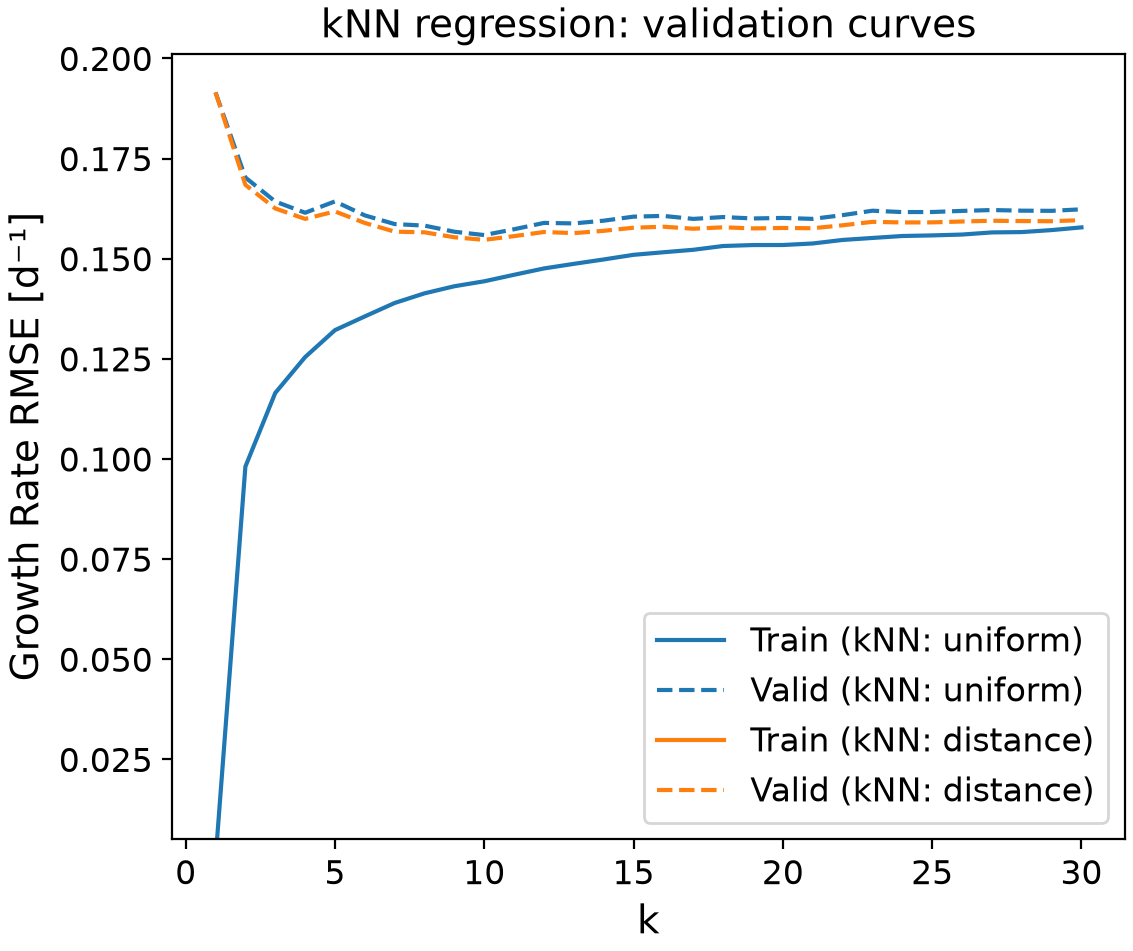
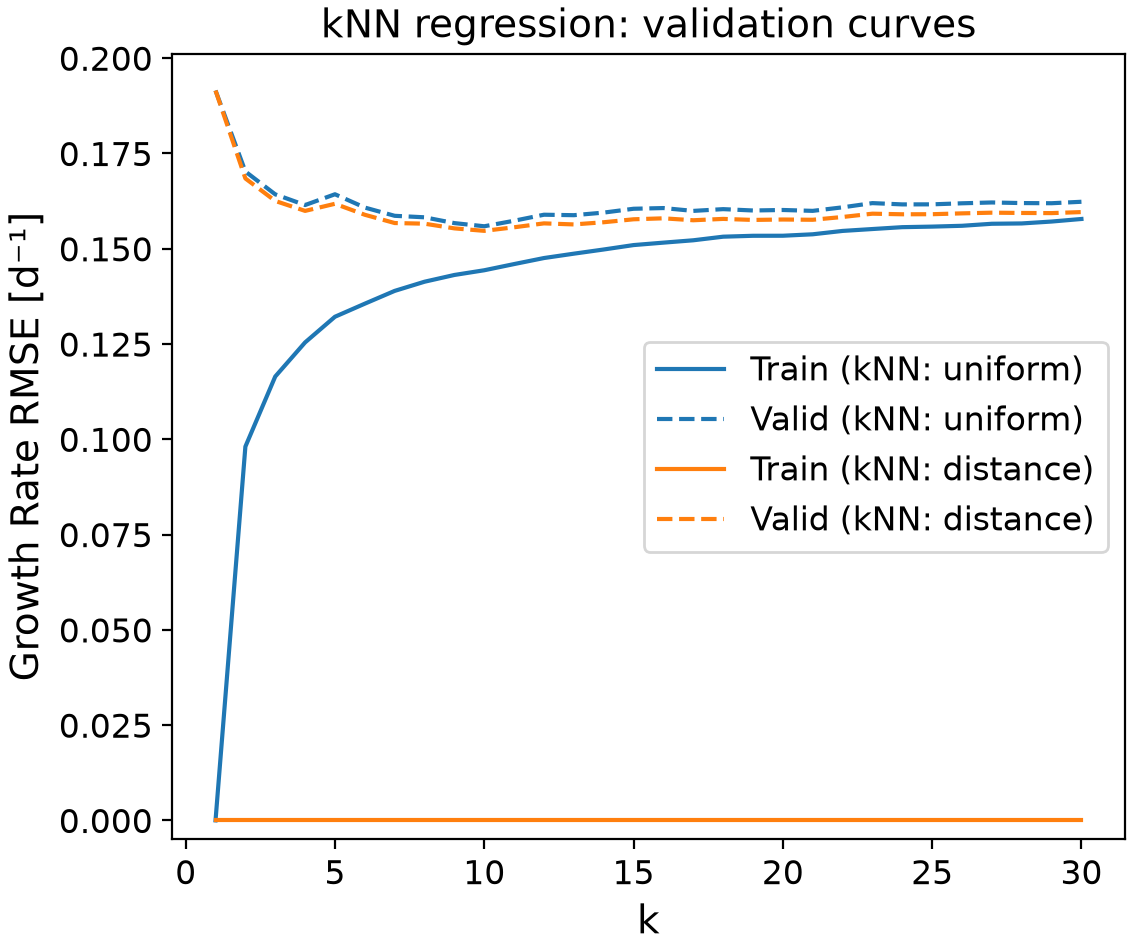
changes

diff --git a/main.py b/main.py
@@ -48,6 +48,14 @@ columns_view = ["rank_test_rmse","param_polynomialfeatures__degree",
     "mean_test_rmse", "std_test_rmse","mean_train_rmse", "std_train_rmse",
     "mean_test_r2", "mean_train_r2"]
 
+# Examine polynomial model weights
+best_polynomial = model_polynomial_gcsv.best_estimator_
+coefs = best_polynomial["linearregression"].coef_
+intercept = best_polynomial["linearregression"].intercept_
+feature_names = [name.split(" [")[0].replace(" ", "_") for name in features]
+terms = best_polynomial["polynomialfeatures"].get_feature_names_out(feature_names)
+
+
 #============================================
 #   k-nearest neighbors
 #============================================
@@ -81,43 +89,49 @@ test_r2 = r2_score(y_test, y_test_pred)
 # =====================================
 os.makedirs("tables", exist_ok=True)
 
-    #Linear regression
+# Linear regression
 print("\nLinear regression: 5-fold cross-validation")
 print(f"  Train      | RMSE | {linear_train_rmse:.3f} d^-1")
 print(f"  Validation | RMSE | {linear_valid_rmse:.3f} d^-1")
 print(f"  Train      | R²   | {linear_train_r2:.3f}")
 print(f"  Validation | R²   | {linear_valid_r2:.3f}")
 
-    #Polynomial regression
+# Polynomial regression
 print("\nPolynomial regression: 5-fold cross-validation")
 #print(df_polynomial.loc[:, columns_view].to_string(index=False))
 print(" - Best degree:", model_polynomial_gcsv.best_params_["polynomialfeatures__degree"])
 print(f" - Best mean validation RMSE: " f"{-model_polynomial_gcsv.best_score_:.3f} d^-1")
 print(f" - Mean validation R²: " f"{df_polynomial.loc[model_polynomial_gcsv.best_index_, 'mean_test_r2']:.3f}")
 
-#Output a summary table
+    # Output a summary table
 table = df_polynomial.loc[:, columns_view].to_string(index=False, float_format="{:.3f}".format)
 with open(os.path.join("tables", "polynomial_cv_results.txt"), "w") as file:
     file.write(table)
 
-    #k-nearest neighbors
+    # Get polynomial model weights
+print("\nBest polynomial model (standardized inputs):")
+print(f"{targets} =")
+print(f"{intercept:+8.3f}")
+
+for coef, term in zip(coefs, terms):
+    print(f"{coef:+8.3f} * {term.replace(' ', ' * ')}")
+
+# k-nearest neighbors
 print("\nkNN regression: 5-fold cross-validation")
 print(" - Best number of neighbors:", model_knn_gcsv.best_params_["kneighborsregressor__n_neighbors"])
 print(" - Best weights:", model_knn_gcsv.best_params_["kneighborsregressor__weights"])
 print(f" - Best mean validation RMSE: {-model_knn_gcsv.best_score_:.3f} d^-1")
 print(f" - Mean validation R²: " f"{df_knn.loc[model_knn_gcsv.best_index_, 'mean_test_r2']:.3f}")
 
-# Output a summary table
+    # Output a summary table
 table = df_knn.loc[:, columns_view_knn].to_string(index=False, float_format="{:.3f}".format)
 with open(os.path.join("tables", "knn_cv_results.txt"), "w") as file:
     file.write(table)
 
-
-#   Final test evaluation
+# Final test evaluation
 print("\nFinal kNN model: performance of Test set")
 print(f"  Test | RMSE | {test_rmse:.3f} d^-1")
 print(f"  Test | R²   | {test_r2:.3f}")
-
 
 
 # ==========================
@@ -144,7 +158,6 @@ fig, ax = plt.subplots(nrows=1, ncols=1,figsize=(FIG_WIDTH, FIG_HEIGHT),dpi=200,
 
 ax.plot(degrees, rmse_train,label="Train (Polynomial)", color=COLORS[0], linestyle="-")
 ax.plot(degrees, rmse_valid,label="Valid (Polynomial)", color=COLORS[0], linestyle="--")
-
 ax.set_xlabel("Polynomial degree", fontsize=fontsize_xy_label)
 ax.set_ylabel("Growth Rate RMSE [d⁻¹]", fontsize=fontsize_xy_label)
 ax.set_xticks(degrees)
@@ -156,7 +169,6 @@ ax.set_title("Polynomial regression: validation curve", fontsize=14)
 fig.savefig(os.path.join("figures", "validation_curve_polynomial.png"))
 plt.close(fig)
 
-
 # k-Nearest Neighbors
 fig, ax = plt.subplots(nrows=1, ncols=1,figsize=(FIG_WIDTH, FIG_HEIGHT),dpi=200, layout="constrained")
 
@@ -164,11 +176,9 @@ for i, weight in enumerate(param_grid_knn["kneighborsregressor__weights"]):
     mask_weight = (df_knn.loc[:, "param_kneighborsregressor__weights"] == weight)
     df_sub = df_knn.loc[mask_weight, :]
     df_sub = df_sub.sort_values(by="param_kneighborsregressor__n_neighbors", ascending=True)
-
     n_neighbors = df_sub.loc[:, "param_kneighborsregressor__n_neighbors"].to_numpy(dtype=int)
     rmse_train = -df_sub.loc[:, "mean_train_rmse"].to_numpy()
     rmse_valid = -df_sub.loc[:, "mean_test_rmse"].to_numpy()
-
     ax.plot(n_neighbors, rmse_train,label=f"Train (kNN: {weight})", color=COLORS[i], linestyle="-")
     ax.plot(n_neighbors, rmse_valid,label=f"Valid (kNN: {weight})", color=COLORS[i], linestyle="--" )
 
@@ -176,7 +186,7 @@ ax.set_xlabel("k", fontsize=fontsize_xy_label)
 ax.set_ylabel("Growth Rate RMSE [d⁻¹]", fontsize=fontsize_xy_label)
 ax.tick_params(axis="both", which="major", labelsize=fontsize_ticks)
 ax.legend(ncols=1, fontsize=fontsize_legend)
-ax.set_ylim(bottom=0.005)
+ax.set_ylim(bottom=-0.005)
 ax.set_title("kNN regression: validation curves", fontsize=14)
 
 fig.savefig(os.path.join("figures", "validation_curve_knn.png"))

diff --git a/README.md b/README.md
@@ -1,0 +1,101 @@
+### Cell growth prediction using Machine Learning
+This Python project predicts the specific growth rate of cells from temperature, pH, glucose concentration, and lactate concentration data. It compares linear regression, polynomial regression, and k-nearest neighbors regression using a simulated dataset. Cross-validation guides model selection, while a separate test set evaluates the selected model. The program exports tables and figures to support the comparison.
+
+# Highlights
+•   Build regression pipelines for cell growth prediction.
+•   Scale culture variables within cross-validation pipelines.
+•   Optimize polynomial degree and kNN hyperparameters.
+•   Evaluate predictions using RMSE and R².
+•   Export validation curves and model comparison tables.
+
+# Environment
+•   Python: 3.14.7
+•   Matplotlib: 3.11.0
+•   NumPy: 2.5.2
+•   pandas: 3.0.5
+•   scikit-learn: 1.9.0
+
+## Code design
+# 1- Data loading and variable selection
+The workflow starts when main.py reads datasets/dataset_cell_growth_4factor.csv into a pandas DataFrame. The dataset contains 318 samples. The first column contains the target, specific growth rate in d⁻¹. The remaining columns contain the four features: temperature, pH, glucose concentration, and lactate concentration. The features and target are selected separately and converted to NumPy arrays.
+
+# 2- Training and test split
+The data are divided into a training set containing 80% of the observations and a test set containing 20%. Setting random_state = 0 makes the split reproducible.
+The training set is used to fit and compare models and select hyperparameters. The test set is reserved for the final evaluation of the selected model.
+
+# 3- Preprocessing and model pipelines
+Each model is placed in a pipeline with StandardScaler. Scaling centers each input around its training mean and divides it by its training standard deviation. This step is essential for processing features at a comparable scale.
+
+# 4- Setting and optimizing the models
+Placing the scaler inside each pipeline ensures that it is fitted only on the training portion of each cross-validation fold. The validation observations are then transformed using those training statistics. The following models are implemented:
+  - Linear regression: The program evaluates linear regression as the baseline using five-fold cross-validation on the training set. In each fold, the model is fitted on four parts and validated on the remaining part. Training and validation RMSE and R² are averaged across the five folds.
+  - Polynomial regression: The pipeline includes an additional PolynomialFeatures term, which creates powers and interaction terms before linear regression is fitted. GridSearchCV is used to evaluate polynomial degrees from 1 to 5 using five-fold cross-validation. It records training and validation RMSE and R² for each degree, then selects the degree with the lowest mean validation RMSE. The program also extracts the intercept and weights of the best polynomial model. These weights help examine how individual inputs, squared terms, and interactions contribute to predicted growth.
+  - kNN regression: GridSearchCV evaluates neighbor counts from 1 to 30 with both uniform and distance weighting, giving 60 configurations. Each configuration is evaluated using five-fold cross-validation. The program records training and validation RMSE and R², then selects the configuration with the lowest mean validation RMSE.
+For all models, lower RMSE indicates smaller prediction errors, while higher R² indicates better performance relative to a mean-based prediction. The program reverses RMSE signs to positive values when reporting errors in the terminal and figures.
+
+# 5- Final evaluation and code output
+With refit="rmse", each search automatically refits its best pipeline on the full training set. The script then uses the selected model to assess the final performance of the reserved test set observations by determining RMSE and R2. For this dataset, kNN was selected as the optimal model fit, with a justification presented in the analysis below.
+The program prints the main results and saves the search results in the tables directory. It also saves two PNG validation curves in the figures directory for:
+  - Polynomial regression: [Polynomial degree vs  RMSE]
+  - kNN regression: [ number_of_neighbors(k) vs RMSE] for both uniform and distance.
+
+
+## Analysis
+The goal is to predict specific growth rate from four culture conditions. The dataset contains simulated data, so the results describe patterns in this dataset rather than a validated model for a particular cell line. The available ranges are the following:
+|Variable                  |Minimum|Maximum|
+|--------------------------|-------|-------|
+|Temperature (°C)          |30.0   |42.0   |
+|pH                        |6.00   |7.80   |
+|Glucose (mM)              |0.0    |39.9   |
+|Lactate (mM)              |0.0    |40.0   |
+|Specific growth rate (d⁻¹)|0.000  |0.750  |
+
+All models are compared using the same training set with five-fold cross-validation, and compare two performance metrics:
+  - RMSE: expresses prediction error in the same units as growth rate and gives greater weight to larger errors.
+  - R²: measures how much variation the model explains relative to a mean-based prediction.
+Both metrics are needed because a model can improve on a baseline while still making errors that are too large for practical use.
+
+# Comparison of different models
+The table summarizes cross-validation results for each model. For polynomial regression and kNN, the reported configuration is the one with the lowest mean validation RMSE in its search.
+|Model                     |        Configuration         |Mean training RMSE (d⁻¹) |Mean validation RMSE (d⁻¹)|Mean validation R²|
+|--------------------------|------------------------------|------------------------|--------------------------|------------------|
+|Linear regression         | Four scaled inputs           |0.171                   |0.177                     |0.007             |
+|Polynomial regression     | Degree 2                     |0.143                   |0.157                     |0.185             |
+|kNN regression            |10 neighbors, uniform weights |0.144                   |0.156                     |0.228             |
+|kNN regression            |10 neighbors, distance weights|0.000                   |0.155                     |0.237             |
+
+  - Linear regression:
+The model has the highest validation RMSE among these configurations which indicates the highest prediction error. Its mean validation R² is also close to zero, indicating very limited predictive value. A linear model assumes a constant effect of each input when the others are held fixed. That assumption is restrictive for growth, where favorable conditions usually lie between low and high extremes.
+
+  - Degree-2 polynomial regression:
+This model improved validation RMSE to approximately 0.157 d⁻¹. Its validation R² of 0.185 also indicates an improvement over the linear model, although predictive performance remains limited. With four original inputs, degree 2 generates 14 polynomial features, excluding the intercept. This adds flexibility while keeping the model relatively small. Squared terms allow curvature, with pH² having the largest coefficient magnitude (−0.061), followed by temperature² (−0.020). Both coefficients are negative, indicating downward curvature in predicted growth. Interaction terms, particularly glucose × lactate and temperature × pH, also contribute to predictions, allowing the effect of one variable to depend on another.
+![img.png](img.png)
+Figure 1. Training and validation RMSE as polynomial degree increases.
+
+The polynomial validation curve shows why the most complex model is not selected. Mean validation RMSE falls from 0.177 d⁻¹ at degree 1 to 0.157 d⁻¹ at degree 2. It then rises to 0.171, 0.235, and 0.618 d⁻¹ for degrees 3, 4, and 5, respectively.
+Training RMSE continues to decrease as degree increases. This growing gap indicates overfitting: the higher-degree models fit the training observations more closely but predict validation observations less accurately. Degree 2 gives the best validation performance within the tested polynomial range.
+
+  - kNN model:
+The fitted model with 10 neighbors and distance weighting has the lowest mean validation RMSE, approximately 0.155 d⁻¹. This model enables the prediction of growth from nearby observations in the scaled input space, without requiring a specific equation for the relationship between culture conditions and growth. This model had the highest R² value from the tested model, but it still explained only 23.7% of the variation in growth rate, indicating limited predictive performance.
+From the 3 models tested, kNN fitted the dataset best for the training set. However, the advantage over degree-2 polynomial regression is small: approximately 0.002 d⁻¹ in RMSE. The fold-to-fold standard deviations in validation RMSE are approximately 0.011 d⁻¹ for the selected kNN model and 0.016 d⁻¹ for degree-2 regression. These values do not establish statistical significance. Therefore, degree-2 regression remains a reasonable alternative, especially when a fitted equation is useful.
+![img_1.png](img_1.png)
+Figure 2. Training and validation RMSE for uniform and distance weighting across neighbor counts.
+
+A small neighbor count makes predictions sensitive to a few nearby observations, while a count that is too large averages over more observations and smooth out useful local patterns. Ten neighbors provides the best balance among the tested configurations for this split and cross-validation setup.
+Distance-weighted kNN has zero training RMSE here because a training observation is its own neighbor at zero distance. When predicting that same observation, the estimator returns its measured target. Therefore, zero training error does not show that the model will predict new observations perfectly. Validation performance provides the useful evidence for choosing its hyperparameters.
+Uniform weighting with 10 neighbors gives a similar validation RMSE of approximately 0.156 d⁻¹. Distance weighting is selected because it has a slightly lower error, but both approaches are reasonable.
+
+# Final test performance
+The selected kNN model refitted on training observations and evaluated on test observations resulted in the following performance metrics:
+|RMSE (d⁻¹)                |0.156|
+|--------------------------|-----|
+|R²                        |0.394|
+The test RMSE is close to the mean validation RMSE, which is encouraging for this split. However, an error of around 0.156 d⁻¹ is substantial compared with the dataset's mean growth rate of approximately 0.283 d⁻¹. The test R² indicates that the model explains about 39% of the variation in test growth rates. Its predictive ability is useful but limited.
+Test R² is higher than mean validation R². These scores use different observations and different reference variation, so they do not have to match. One favorable test split does not establish strong general performance. Repeating the evaluation with other splits or an independent dataset would provide stronger evidence.
+
+# Culture conditions and prediction reliability
+The polynomial fit suggests that higher growth is favored by intermediate temperature and pH, while higher glucose and lower lactate concentrations contribute positively near the average culture conditions. Lower growth is expected at unfavorable temperature or pH values, or when low glucose and high lactate occur together. However, interactions mean that the effect of each variable depends on the other conditions, so these trends do not establish exact optimal values.
+For the selected kNN model, predictions are less reliable for combinations with few nearby training observations, even when each input is within the dataset’s range. Predictions outside the studied ranges are particularly unreliable because kNN relies on existing neighbors and cannot extrapolate trends..
+
+# Model advantages and limitations
+The model could help with early screening by providing rough growth estimates and helping prioritize culture conditions for experiments. The workflow’s strengths are its reproducible split, scaling within pipelines, consistent cross-validation, and separate test evaluation. Its main limitations are the small simulated dataset and limited predictive accuracy. These limitations make it a starting point for process investigation, with additional data and validation in the intended culture system needed before using its predictions to guide operating decisions.
